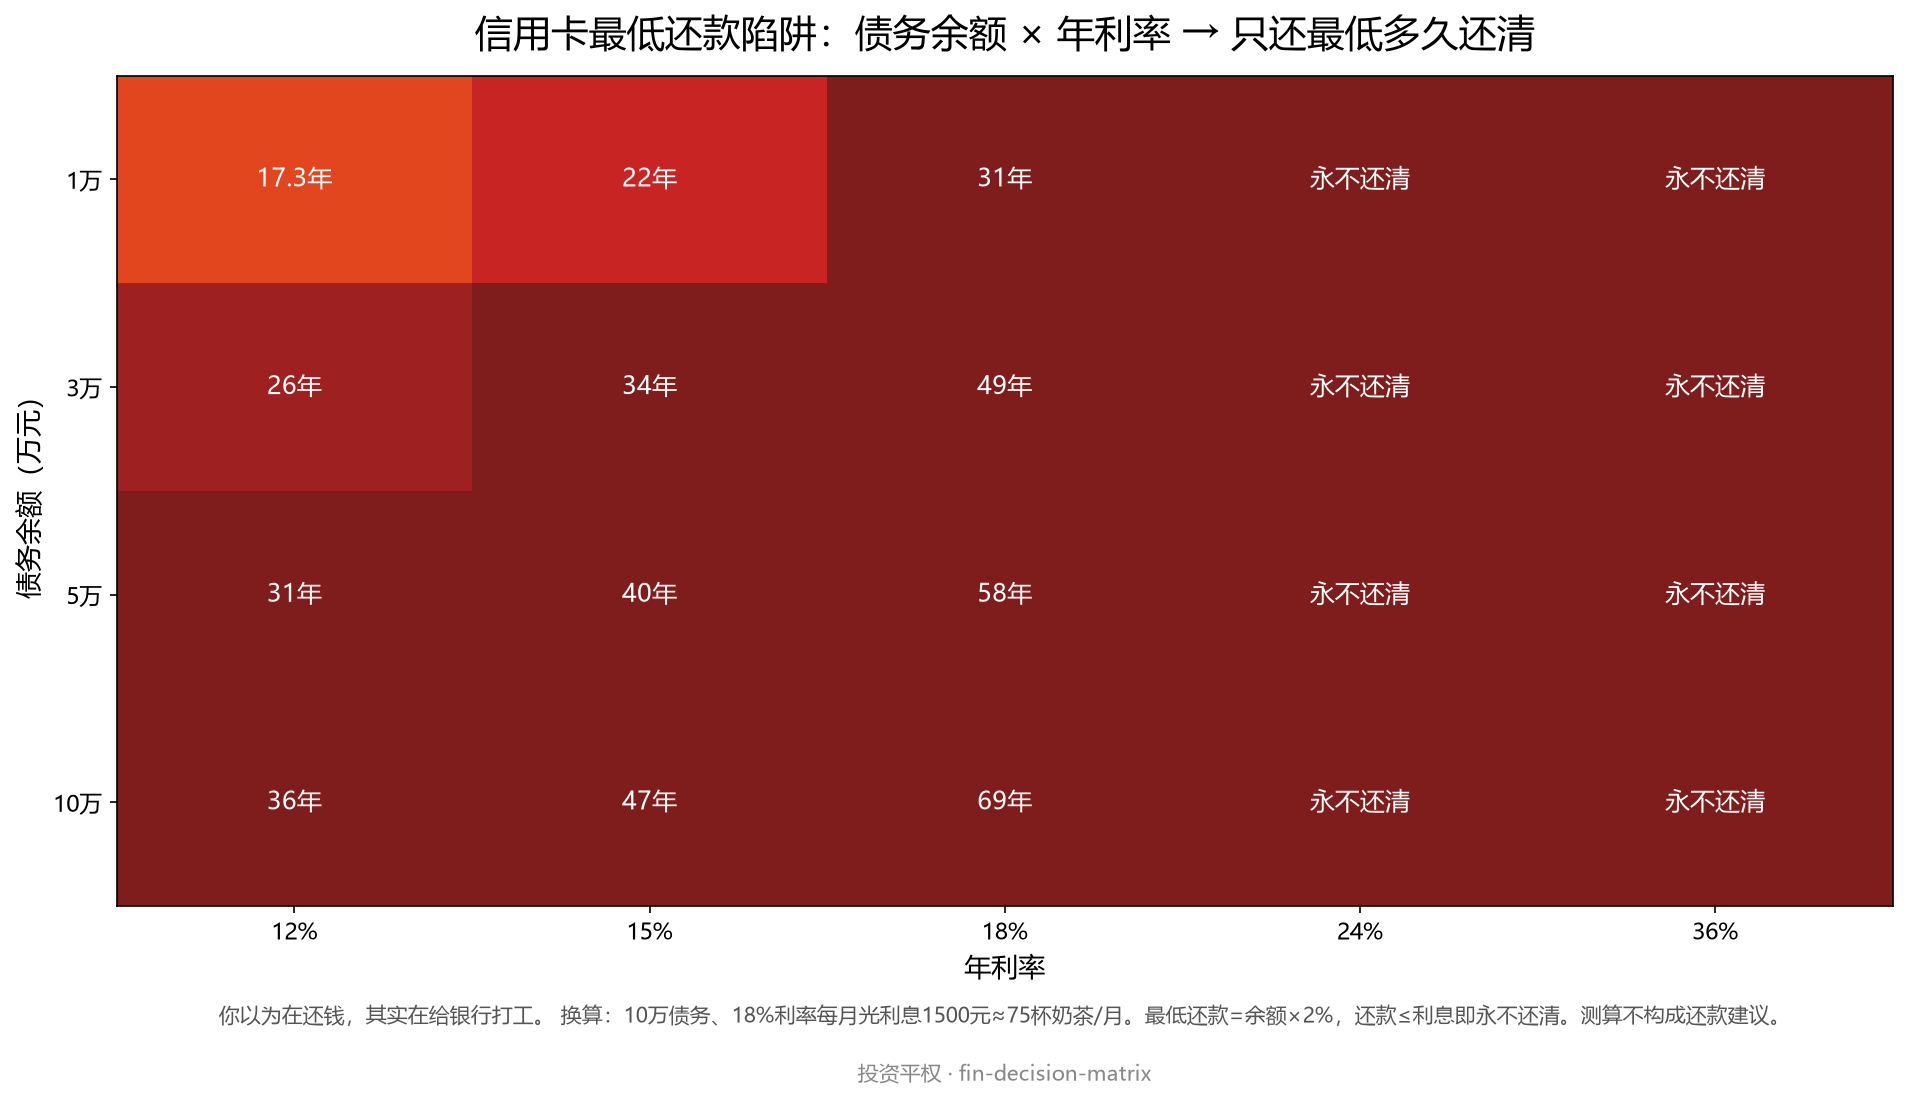
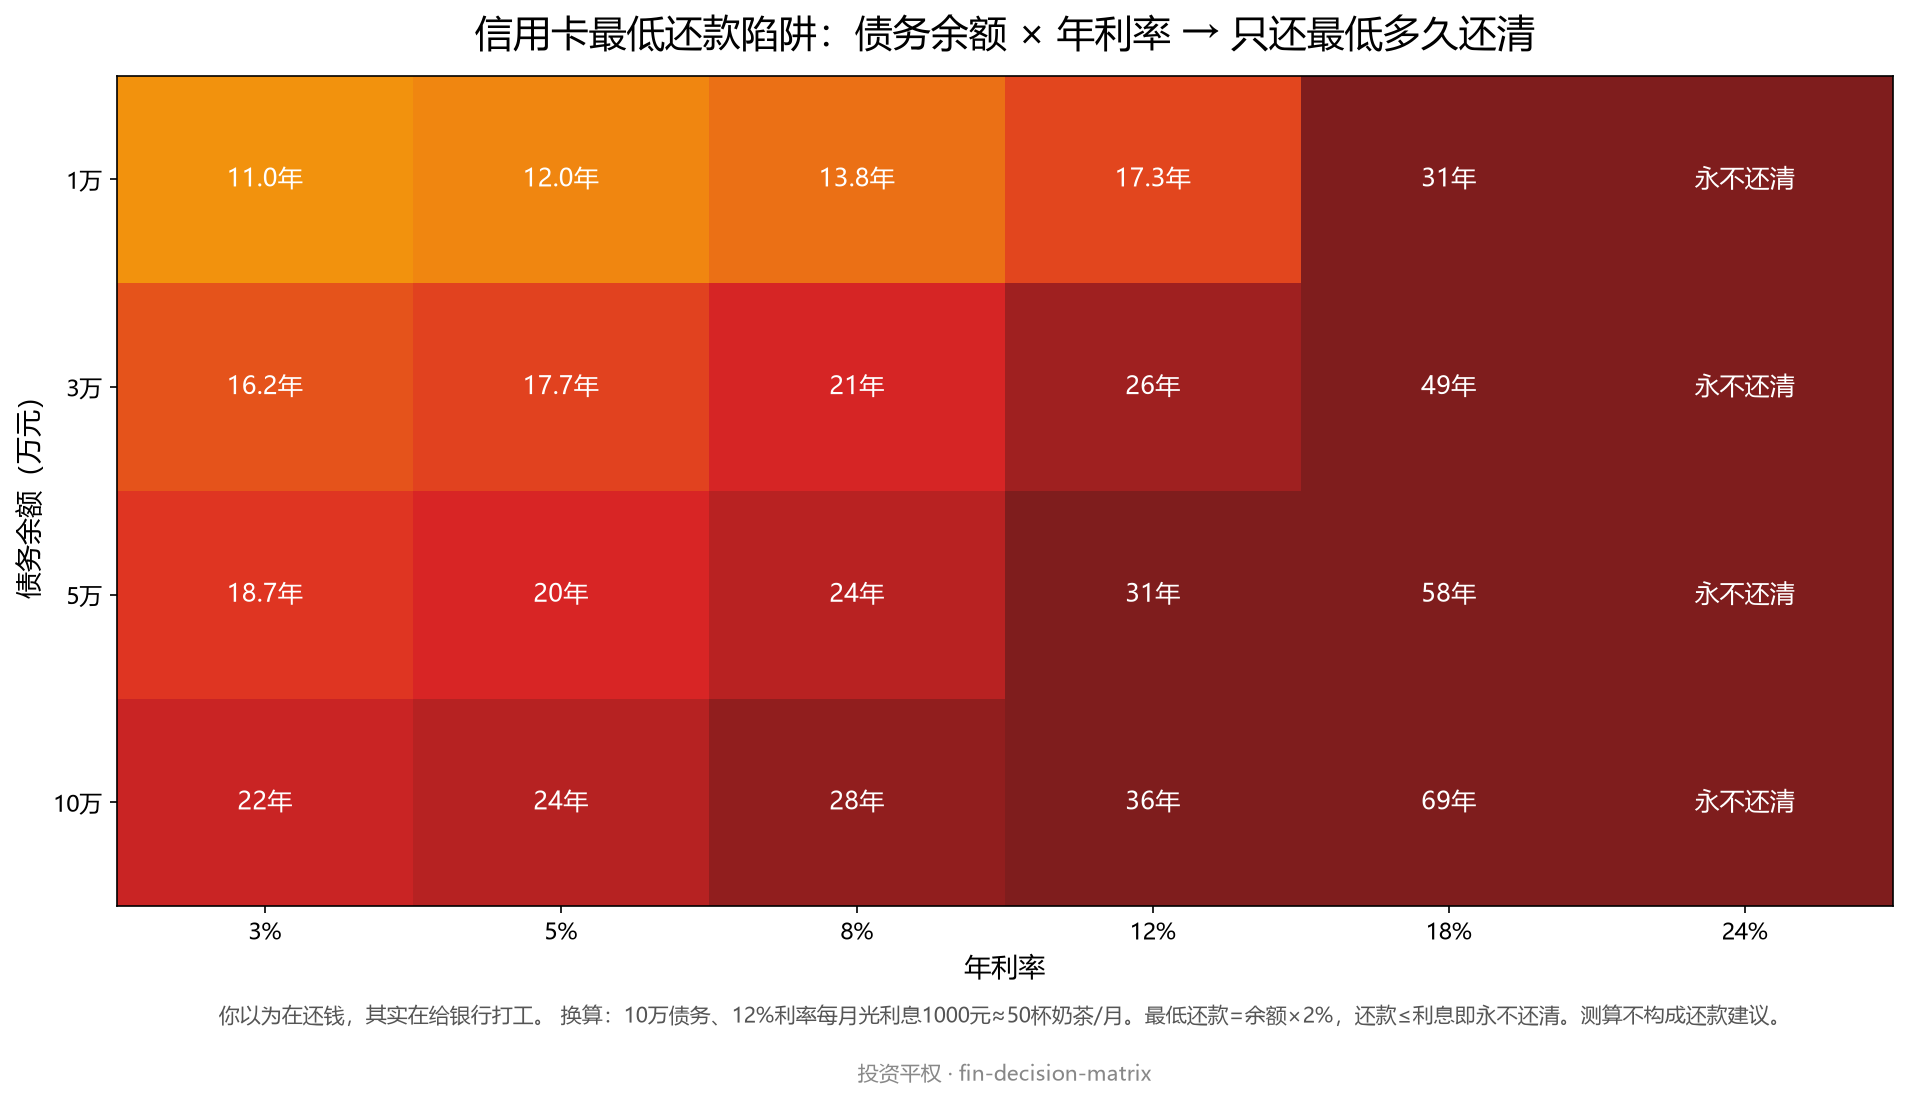
chore: 信用卡场景利率挡位调整为 3%-24% 实际区间（矩阵/PNG/结果卡/首页同步）

diff --git a/output/信用卡最低还款陷阱_决策矩阵.html b/output/信用卡最低还款陷阱_决策矩阵.html
@@ -27,11 +27,11 @@
   <h1>只还最低，多久能还清？</h1>
   <div class="subtitle">你以为在还钱，其实在给银行打工。<span class="emotion">震撼 + 后悔</span></div>
   <div class="assume">假设：每月最低还款 = 余额×<b>2%</b>（不足 50 元按 50 元）；
-  月利息 = 余额 × 月利率（年利率/12）；未计违约金、复利罚息。<br>换算：10 万债务、18% 利率——每月光利息 <b>1500 元</b>≈ 75 杯奶茶/月，一年 <b>1.8 万</b>。你的钱，正在替银行打工。</div>
+  月利息 = 余额 × 月利率（年利率/12）；未计违约金、复利罚息。<br>换算：10 万债务、12% 利率——每月光利息 <b>1000 元</b>≈ 50 杯奶茶/月，一年 <b>1.2 万</b>。你的钱，正在替银行打工。</div>
   <div class="legend"><span><i class="dot" style="background:#7f1d1d"></i>永不还清</span><span><i class="dot" style="background:#dc2626"></i>≥30年</span><span><i class="dot" style="background:#f59e0b"></i>10-30年</span><span><i class="dot" style="background:#15803d"></i>&lt;10年</span></div>
   <table>
-    <tr><th class="rowhead">债务余额（万元）</th><th>12%</th><th>15%</th><th>18%</th><th>24%</th><th>36%</th></tr>
-    <tr><th class="rowhead">1万</th><td style="background:#f59e0b">17.3年</td><td style="background:#f59e0b">22.0年</td><td style="background:#dc2626">31年</td><td style="background:#7f1d1d">永不还清</td><td style="background:#7f1d1d">永不还清</td></tr><tr><th class="rowhead">3万</th><td style="background:#f59e0b">26.4年</td><td style="background:#dc2626">34年</td><td style="background:#dc2626">49年</td><td style="background:#7f1d1d">永不还清</td><td style="background:#7f1d1d">永不还清</td></tr><tr><th class="rowhead">5万</th><td style="background:#dc2626">31年</td><td style="background:#dc2626">40年</td><td style="background:#dc2626">58年</td><td style="background:#7f1d1d">永不还清</td><td style="background:#7f1d1d">永不还清</td></tr><tr><th class="rowhead">10万</th><td style="background:#dc2626">36年</td><td style="background:#dc2626">47年</td><td style="background:#dc2626">69年</td><td style="background:#7f1d1d">永不还清</td><td style="background:#7f1d1d">永不还清</td></tr>
+    <tr><th class="rowhead">债务余额（万元）</th><th>3%</th><th>5%</th><th>8%</th><th>12%</th><th>18%</th><th>24%</th></tr>
+    <tr><th class="rowhead">1万</th><td style="background:#f59e0b">11.0年</td><td style="background:#f59e0b">12.0年</td><td style="background:#f59e0b">13.8年</td><td style="background:#f59e0b">17.3年</td><td style="background:#dc2626">31年</td><td style="background:#7f1d1d">永不还清</td></tr><tr><th class="rowhead">3万</th><td style="background:#f59e0b">16.2年</td><td style="background:#f59e0b">17.7年</td><td style="background:#f59e0b">20.6年</td><td style="background:#f59e0b">26.4年</td><td style="background:#dc2626">49年</td><td style="background:#7f1d1d">永不还清</td></tr><tr><th class="rowhead">5万</th><td style="background:#f59e0b">18.7年</td><td style="background:#f59e0b">20.3年</td><td style="background:#f59e0b">23.8年</td><td style="background:#dc2626">31年</td><td style="background:#dc2626">58年</td><td style="background:#7f1d1d">永不还清</td></tr><tr><th class="rowhead">10万</th><td style="background:#f59e0b">21.9年</td><td style="background:#f59e0b">24.0年</td><td style="background:#f59e0b">28.0年</td><td style="background:#dc2626">36年</td><td style="background:#dc2626">69年</td><td style="background:#7f1d1d">永不还清</td></tr>
   </table>
   <div class="foot">测算基于最低还款额 = 余额×2%（不足 50 元按 50 元）的简化假设，未计违约金、循环复利罚息；实际还款规则因发卡行而异，可能显著延长还款年限。测算不构成还款建议。</div>
   <div class="watermark">投资平权 · fin-decision-matrix</div>

diff --git a/output/信用卡最低还款陷阱_结果卡_债务5万年利率24.html b/output/信用卡最低还款陷阱_结果卡_债务5万年利率24.html
@@ -27,11 +27,11 @@
   <div class="rhead">只还最低，多久能还清？</div>
   <div class="rlabel">你的答案</div>
   <div class="rbig" style="color:#7f1d1d">永不还清</div>
-  <div class="rsub">债务 5.0万，年利率 36%：每月最低还款 1000 元，光利息就要 1500 元——利息 ≥ 还款，本金永远还不完。</div>
-  <div class="rconvert">换算：每月光利息 <b>1500 元</b> ≈ <b>75 杯奶茶/月</b>——这笔钱如果用来定投，20 年后可能是另一笔资产。</div>
-  <div class="rcompare">&nbsp;&nbsp;只还最低：5.0万 / 36% → <span class="rcmp-hi">永不还清</span><br>&nbsp;&nbsp;每月多还 500 元：→ <span class="rcmp-lo">还不清</span><br>&nbsp;&nbsp;即使每月多还 500 元，依然还不清——别只还最低了。</div>
+  <div class="rsub">债务 5.0万，年利率 24%：每月最低还款 1000 元，光利息就要 1000 元——利息 ≥ 还款，本金永远还不完。</div>
+  <div class="rconvert">换算：每月光利息 <b>1000 元</b> ≈ <b>50 杯奶茶/月</b>——这笔钱如果用来定投，20 年后可能是另一笔资产。</div>
+  <div class="rcompare">&nbsp;&nbsp;只还最低：5.0万 / 24% → <span class="rcmp-hi">永不还清</span><br>&nbsp;&nbsp;每月多还 500 元：→ <span class="rcmp-lo">8年</span><br>&nbsp;&nbsp;如果每月多还 500 元——还清缩短到 8 年，省下约 inf 万利息。</div>
   <div class="rquote">很多人以为在还钱，其实在给银行打工。</div>
-  <div class="rshare"><span class="tag">可晒</span>我算了一下：5.0 万卡债、36.0% 利率只还最低——永不还清。很多人以为在还钱，其实在给银行打工。#信用卡最低还款</div>
+  <div class="rshare"><span class="tag">可晒</span>我算了一下：5.0 万卡债、24.0% 利率只还最低——永不还清。很多人以为在还钱，其实在给银行打工。#信用卡最低还款</div>
   <div class="rdisclaimer">测算基于最低还款额 = 余额×2%（不足 50 元按 50 元）的简化假设，未计违约金、循环复利罚息；实际还款规则因发卡行而异，可能显著延长还款年限。测算不构成还款建议。</div>
   <div class="rwatermark">投资平权 · fin-decision-matrix</div>
 </div>

diff --git a/index.html b/index.html
@@ -126,12 +126,12 @@
       <div class="card">
         <div class="age">26 岁 · 第一张信用卡</div>
         <h3>只还最低还款，多久能还清？<span class="badge badge-live">已上线</span></h3>
-        <p class="q">很多人以为在还钱，其实在给银行打工。5 万债务 18% 利率只还最低 → 58 年，利息累计 14.5 万；24% 以上利率直接永不还清。<br>换算：10 万债务 18% 利率，每月光利息 1500 元 ≈ 75 杯奶茶/月。</p>
+        <p class="q">很多人以为在还钱，其实在给银行打工。5 万债务 18% 利率只还最低 → 58 年，利息累计 14.5 万；24% 以上利率直接永不还清。<br>换算：10 万债务 12% 利率，每月光利息 1000 元 ≈ 50 杯奶茶/月。</p>
         <div class="domains"><span>最低还款陷阱</span><span>分期年化</span><span>贷款对比</span></div>
         <div class="btns">
           <a class="btn btn-live" href="output/信用卡最低还款陷阱_决策矩阵.html">打开决策矩阵</a>
           <a class="btn btn-live" href="output/信用卡最低还款陷阱_结果卡_债务5万年利率18.html">58 年 · 结果卡</a>
-          <a class="btn btn-live" href="output/信用卡最低还款陷阱_结果卡_债务5万年利率36.html">永不还清 · 结果卡</a>
+          <a class="btn btn-live" href="output/信用卡最低还款陷阱_结果卡_债务5万年利率24.html">永不还清 · 结果卡</a>
         </div>
       </div>
     </div>
